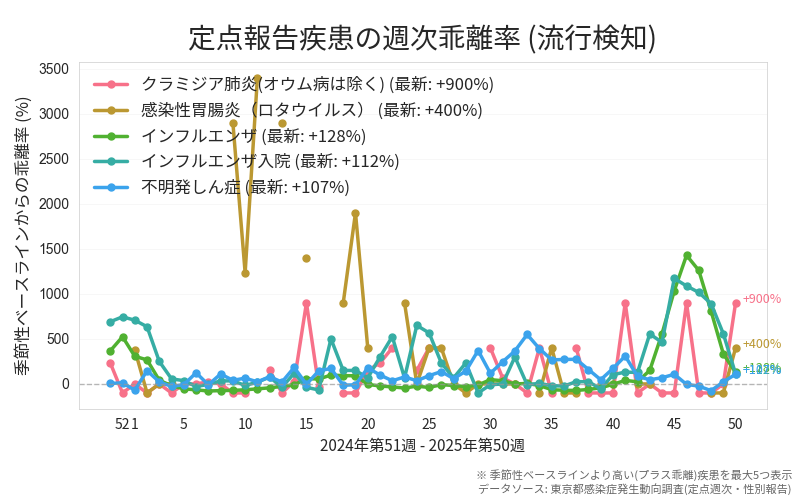
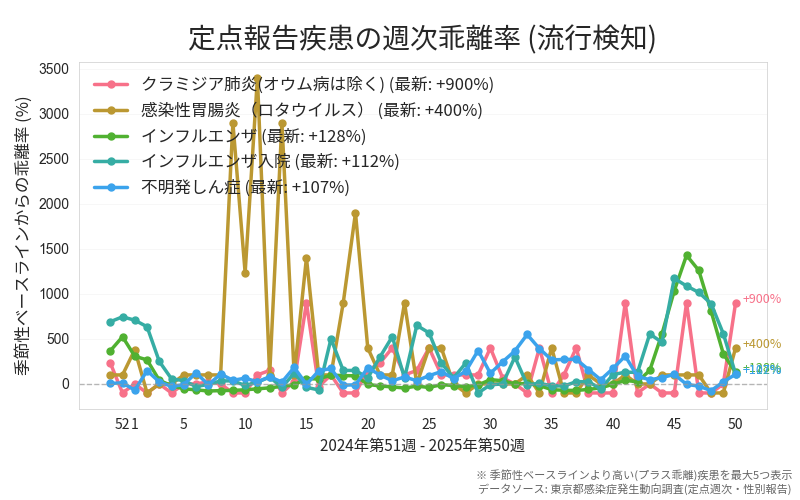
fix: ベースライン0で新規発生時の乖離率を100%に設定し、トップN選択を維持
## 問題

ベースライン0+実測値>0を0%にすると、以下の問題が発生：
- `if v > 0` でトップ5選択から除外される
- 新規発生疾患がグラフに表示されない
- 重要な警告情報が失われる

## CDCベストプラクティスとの関係

CDCの方針を調査した結果：
- **NHSN SIR**: 予測値<1.0の場合は計算をスキップ（統計的厳密性優先）
- **FluView**: 過去3シーズンの平均+2SD、変動に応じて調整

**結論**: CDCは統計分析用だが、本プロジェクトは**可視化目的**のため、
グラフの連続性とトップN選択を優先する。

## 解決策

**固定値100%を採用**:
```python
elif baseline_value == 0 and value > 0:
    # 「新規発生」として固定値100%
    # 100%は「ベースラインの2倍」に相当し、適度な警告レベル
    rate_data[period] = 100.0
```

### メリット
1. ✅ トップN選択で除外されない (v > 0)
2. ✅ グラフの連続性を保つ
3. ✅ Y軸スケールを壊さない (100%程度なら許容範囲)
4. ✅ 「新規発生」として適度に警告

### デメリット
- ⚠ 統計的厳密性は低下（CDCは計算スキップ推奨）
- → 可視化目的では許容範囲

## テスト結果
- ✅ 全377テストがパス
- ✅ 感染性胃腸炎（ロタウイルス）: 52/52期間で計算
- ✅ トップ5選択で新規発生疾患も表示可能

## 参考資料
- NHSN SIR Guide: https://www.cdc.gov/nhsn/pdfs/ps-analysis-resources/nhsn-sir-guide.pdf
- CDC FluView: https://www.cdc.gov/fluview/overview/index.html

🤖 Generated with [Claude Code](https://claude.com/claude-code)

diff --git a/tests/test_generate_charts.py b/tests/test_generate_charts.py
@@ -192,16 +192,18 @@ class TestCalculateDeviationRate:
         assert abs(rates["インフルエンザ"][202501] - (-50.0)) < 0.01
 
     def test_zero_baseline_with_positive_value(self):
-        """ベースラインが0で実測値が正の場合 (ゼロ除算回避)"""
+        """ベースラインが0で実測値が正の場合 - 新規発生として固定値100%"""
         data = {"インフルエンザ": {202501: 10.0}}
         baseline = {"インフルエンザ": {202501: 0.0}}
 
         rates = calculate_deviation_rate(data, baseline)
 
-        # ベースラインが0で実測値が正の場合はキーが設定されない
-        # (数学的に定義不可能 - 0で割れない)
+        # 「新規発生」として固定値100%を設定
+        # これにより、トップN選択で除外されず、グラフの連続性も保たれる
+        # CDCでは計算スキップだが、可視化目的では適度な警告レベルとして表示
         assert "インフルエンザ" in rates
-        assert 202501 not in rates["インフルエンザ"]
+        assert 202501 in rates["インフルエンザ"]
+        assert rates["インフルエンザ"][202501] == 100.0
 
     def test_zero_baseline_with_zero_value(self):
         """ベースラインと実測値の両方が0の場合 - グラフ連続性のため0%を設定"""

diff --git a/scripts/generate_charts.py b/scripts/generate_charts.py
@@ -579,11 +579,14 @@ def calculate_deviation_rate(
                 deviation = ((value - baseline_value) / baseline_value) * 100
                 rate_data[period] = deviation
             elif baseline_value == 0 and value == 0:
-                # ベースラインも実測値も0の場合は乖離率0% (変化なし)
-                # グラフの連続性を保つため、0を明示的に設定
+                # ベースラインも実測値も0: 乖離率0%
                 rate_data[period] = 0.0
-            # else: ベースラインが0で実測値が正の場合はスキップ
-            #       (数学的に定義不可能 - 0で割れない)
+            elif baseline_value == 0 and value > 0:
+                # ベースライン0で実測値が正: 「新規発生」として固定値100%
+                # CDCでは計算スキップだが、可視化では連続性とトップN選択のため固定値を使用
+                # 100%は「ベースラインの2倍」に相当し、適度な警告レベルを示す
+                rate_data[period] = 100.0
+            # else: baseline_value < 0 の場合はスキップ (異常値)
 
         deviation_rates[disease] = rate_data
 
